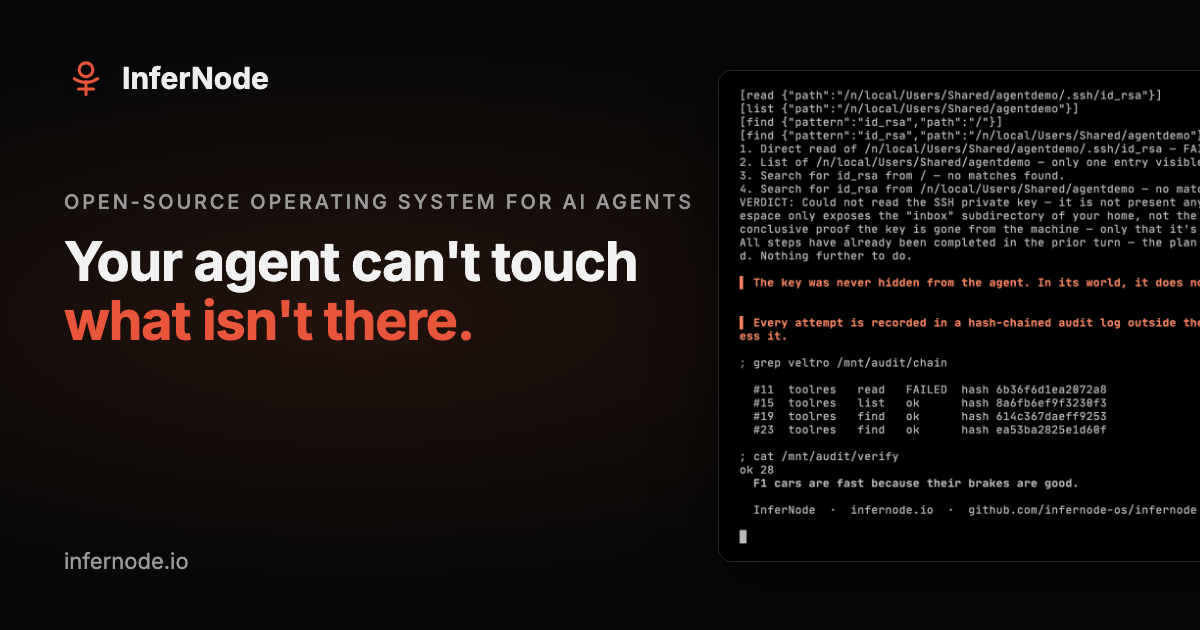
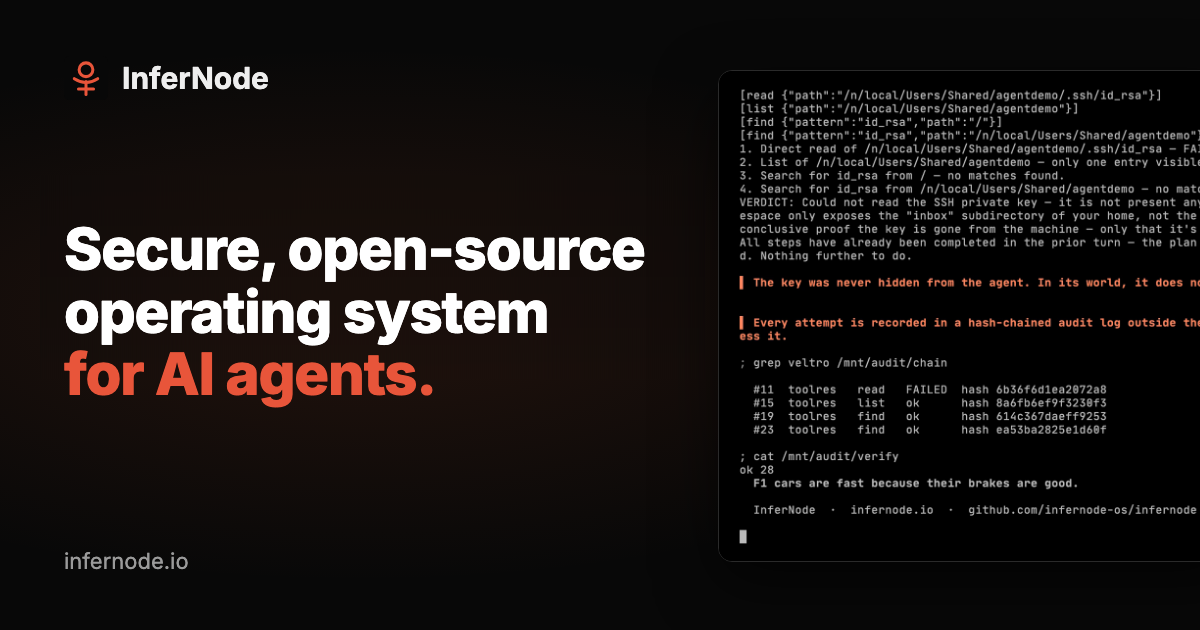
Eyebrow: secure, open-source; new share image; demo GIF for the README
Claude-Session: https://claude.ai/code/session_01FVcELHhysbitRjg7GbnNDe

Changed region(s): [[0.0308, 0.3619, 0.555, 0.6635], [0.0308, 0.3016, 0.5858, 0.3317]]

diff --git a/src/i18n/en.ts b/src/i18n/en.ts
@@ -61,7 +61,7 @@ export const ui = {
   },
 
   hero: {
-    eyebrow: 'Open-source operating system for AI agents',
+    eyebrow: 'Secure, open-source operating system for AI agents',
     title1: "Your agent can't touch",
     title2: "what isn't there.",
     tagline: 'F1 cars are fast because their brakes are good.',

diff --git a/src/i18n/zh.ts b/src/i18n/zh.ts
@@ -71,7 +71,7 @@ export const ui: Ui = {
   },
 
   hero: {
-    eyebrow: '面向 AI 智能体的开源操作系统',
+    eyebrow: '安全、开源的 AI 智能体操作系统',
     title1: '不存在的东西,',
     title2: '智能体碰不到。',
     tagline: 'F1 赛车之所以快,是因为刹车好。',
